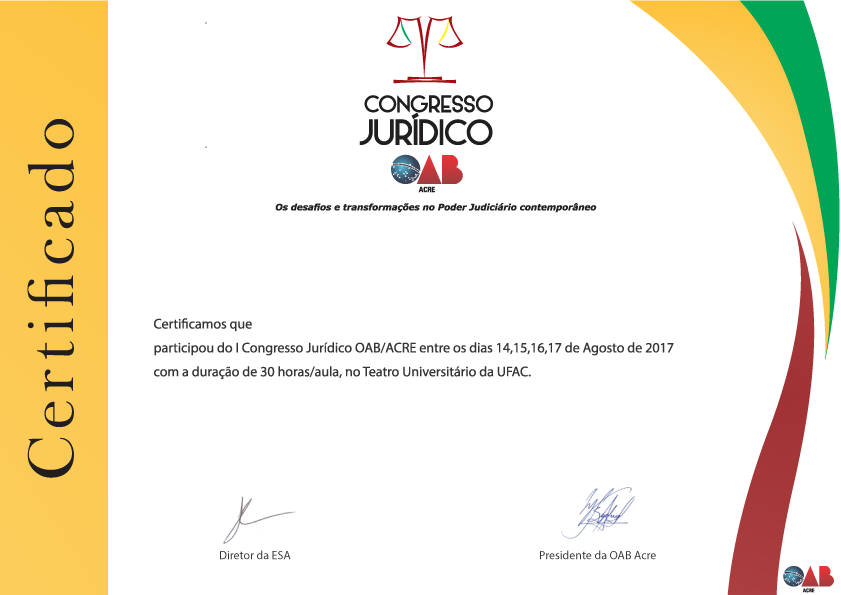
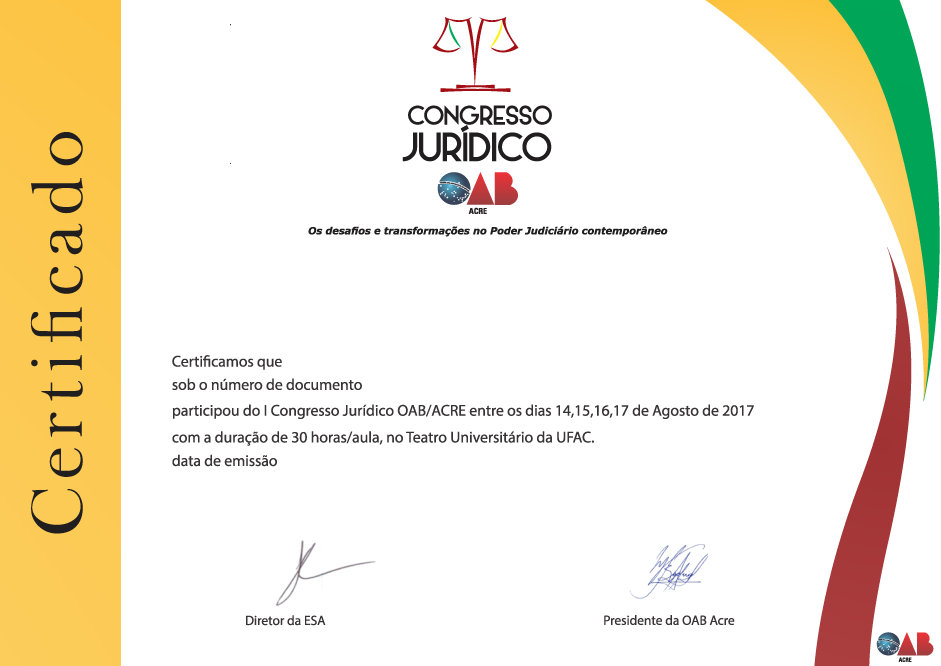
certificado
certificado

diff --git a/javascripts/office/certificado/view.js b/javascripts/office/certificado/view.js
@@ -1,69 +1,54 @@
-$(document).ready(function(){
+var user = sessionStorage.getItem('1');
+var cpf = sessionStorage.getItem('2');
+console.log(user);
+console.log(cpf);
+ //Limpar
+localStorage.clear();
 
-	var usuarios =	{
-		ingresso: clientes.idingresso,
-		nome: clientes.nome,
-		sobrenome: clientes.sobrenome,
-		status: clientes.status
-	};
+var divNome = document.querySelector('.name');
+var divCpf = document.querySelector('.cpf');
+var divData = document.querySelector('.data');
+ 
+divNome.innerHTML = user;
+divCpf.innerHTML = cpf;
+divData.innerHTML = dataAtualFormatada();
 
-	//set nome
-	$('.certificado .name').html(usuarios.nome + ' ' + usuarios.sobrenome);
+function dataAtualFormatada(){
+    var data = new Date();
+    var dia = data.getDate();
+    if (dia.toString().length == 1)
+      dia = "0"+dia;
+    var mes = data.getMonth()+1;
+    if (mes.toString().length == 1)
+      mes = "0"+mes;
+    var ano = data.getFullYear();  
+    var hora = data.getHours(); 
+    var min = data.getMinutes(); 
+    var seg = data.getSeconds();  
+    return dia+"/"+mes+"/"+ano + " As " + hora+":"+min+":"+seg;
+}
 
-	$('.modal-loading').addClass('hidden');
-	$('.modal-header').removeClass('hidden');
-	$('.modal-body').removeClass('hidden');
-	$('.modal-footer').removeClass('hidden');
-	var elem = $('.modal-body');
-	
+var pdf = document.querySelector("#btn-pdf");
+console.log(pdf);
 
-    $('button#btn-pdf').livequery('click',function(event){
-    	pdf();
-    	return false;
-    });
-
-     $('button#btn-pdfImp').livequery('click',function(event){
-      
-
-     return false;
-    });
-
-    function onError(response) {
-      console.log(response);
-    }
-
+pdf.addEventListener("click", function(event) {
 
     function pdf() {
-     if(parseInt(usuarios.status) == 3){
+   
             var d = new Date();
             var n = d.getTime();
-            var doc = new jsPDF('landscape', 'pt', [768, 595]);
+            var doc = new jsPDF('landscape');
                 doc.addHTML($('div#certificado'), function() {
 
                 doc.save("certificado-pdf-"+n+".pdf");
             });
-        }
-        return doc;
-    }
-    
-
-function printElem(elem){
-    var mywindow = window.open();
-    console.log(elem);
-    mywindow.document.write('<html><head><title>' + document.title  + '</title>');
-    mywindow.document.write('</head><body >');
-    mywindow.document.write(elem);
-    console.log(mywindow.document);
-    mywindow.document.write('</body></html>');
-
-    mywindow.document.close(); // necessary for IE >= 10
-    mywindow.focus(); // necessary for IE >= 10*/
-
-    mywindow.print();
-    mywindow.close();
-
-    return true;
-}
+      return doc;
+    };
 
 
+   
+    pdf();
+     
 });
+
+

diff --git a/javascripts/office/dashboard.js b/javascripts/office/dashboard.js
@@ -1,5 +1,5 @@
 //variable global
-var clientes, pagamentos = {};
+var clientes, pagamentos, usuarios = {};
 
 $(document).ready(function(){
 
@@ -85,6 +85,13 @@ $(document).ready(function(){
 
                     //set 
                     clientes = response;
+
+                        usuarios =  {
+                            ingresso: clientes.idingresso,
+                            nome: clientes.nome,
+                            sobrenome: clientes.sobrenome,
+                            status: clientes.status
+                        };
                     
                 }
             },
@@ -107,15 +114,12 @@ $(document).ready(function(){
 
     $('button#btn-certificado').livequery('click',function(event){
 
-        var options = {
-            cache:false,
-            show: true,
-            keyboard: false,
-            backdrop: 'static'
-        }
-        $("div#modal").modal(options);
-        $('div#modal .modal-dialog').addClass('modal-lg');
-        $('div#modal .modal-content').load('views/office/certificado/view.php');
+        var user = clientes.nome +" "+ clientes.sobrenome;
+        console.log("usuarios: " + user);
+        sessionStorage.setItem('1',user);
+        sessionStorage.setItem('2',clientes.cpf);
+        window.open('views/office/certificado/view.php');
+       
         return false;
     });
 

diff --git a/assets/template/css/colors/red.css b/assets/template/css/colors/red.css
@@ -317,16 +317,31 @@ i.btn-label{
   font-size: 1.6em;
   color: #212121;
   position: absolute;
-  top: 51%;
-  left: 34%;
+  top: 348.65px;
+  left: 141px;
 }
 .certificado .certification{
   background: url('/assets/images/common/certification.png');
   background-repeat: no-repeat;
   width: 100%;
-  height: 595px;
+  height: 680px;
 }
 
-.novaAba {
-    target-new: tab ! important;
+.certificado .cpf{
+  font-family: 'Dancing Script', cursive;
+  font-size: 1.1em;
+  color: #212121;
+  position: absolute;
+  top: 32.5%;
+  left: 28.5%;
 }
+
+.certificado .data{
+  font-family: 'Dancing Script', cursive;
+  font-size: 1.0em;
+  color: #212121;
+  position: absolute;
+  top: 39.2%;
+  left: 22.2%;
+}
+

diff --git a/views/office/certificado/view.php b/views/office/certificado/view.php
@@ -1,41 +1,48 @@
 
-<div class="modal-loading">
+<link href="/../../assets/template/css/colors/red.css" id="theme" rel="stylesheet">
+<script src="https://ajax.googleapis.com/ajax/libs/jquery/3.2.1/jquery.min.js"></script>
+<!-- <div class="modal-loading">
   	<div class="col-md-12 text-center">
 	    <div class="loading">
 	        <img src="assets/images/common/loading.gif" width="38">
 	        <p>Aguarde, processando...</p>
 	    </div>
   	</div>
-</div><!-- /.modal-loading -->
-
-<div class="modal-header hidden">
+</div>-->
+<!--    modal-loading --> 
+<!-- 
+<div class="modal-header">
     <button type="button" class="close" data-dismiss="modal" aria-label="Close">
     	<span aria-hidden="true">×</span>
     </button>
     <h4 class="modal-title">Certificado</h4> 
-</div>
-<div class="modal-body hidden">
+</div> -->
+<div class="modal-body">
 
     <div class="row">
 	    <div class="col-md-12">
 	        <div id="certificado" class="certificado">
                 <div class="name"></div>
+                <div class="cpf"></div>
+                <div class="data"></div>
                 <div class="certification"></div>
             </div>
 	    </div>
     </div>
     
 </div>
-<div class="modal-footer hidden">
-    <span style="color: red; font-size-adjust: 10px;">* Para baixar o certificado utilize navegador Firefox</span> 
+<div class="modal-footer">
+    <span>* Para baixar o certificado não utilize dispositivos moveis</span> 
     <button id="btn-pdf" type="button" class="btn btn-sm btn-success">Baixar PDF</button>
     <button id="btn-pdfImp" type="button" class="btn btn-sm btn-success">Imprimir PDF</button>
-    <button type="button" class="btn btn-sm btn-default" data-dismiss="modal">Fechar</button>
-  
 </div>
 
 <!-- javascripts -->
-<script type="text/javascript" src="javascripts/office/certificado/view.js"></script>
+
+<script type="text/javascript" src="/../javascripts/office/certificado/view.js"></script>
+<script src="https://unpkg.com/jspdf@latest/dist/jspdf.min.js"></script>
+<script src="http://html2canvas.hertzen.com/build/html2canvas.js"></script>
+
 
 <!-- CSS -->
 <link href="https://fonts.googleapis.com/css?family=Dancing+Script" rel="stylesheet">
